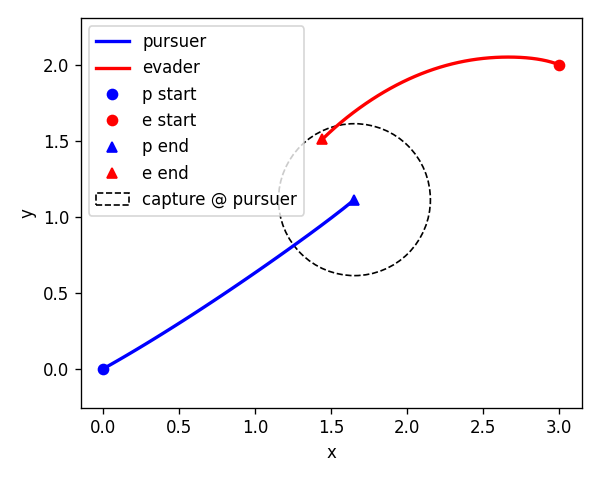
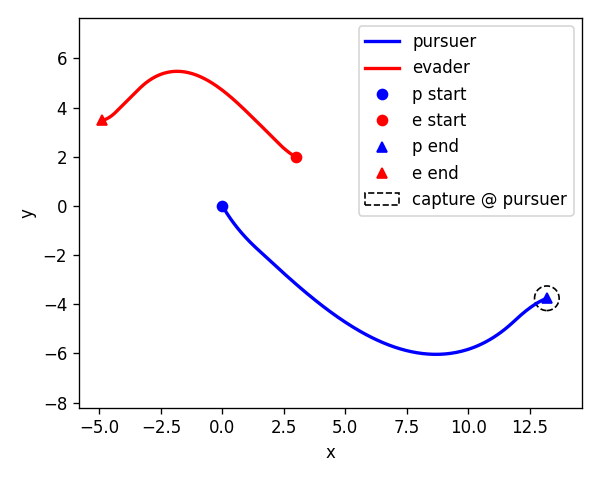
Add evader bias to move away from pursuer in control policy

diff --git a/pe_hji/sim.py b/pe_hji/sim.py
@@ -4,56 +4,22 @@ from .grid import Grid4D
 from .controls import optimal_controls_from_gradient
 
 
-def _interp_central_gradients(V: np.ndarray, grid: Grid4D, state: np.ndarray) -> Tuple[float, np.ndarray, np.ndarray]:
+def _interp_gradients(V: np.ndarray, grid: Grid4D, state: np.ndarray) -> Tuple[float, float, float, float, float]:
 	rx, ry, rvx, rvy = grid.axes
-	idxs = []
-	ws = []
 	coords = [state[0], state[1], state[2], state[3]]
-	for axis_vals, val in zip((rx, ry, rvx, rvy), coords):
-		i = int(np.clip(np.searchsorted(axis_vals, val) - 1, 0, len(axis_vals) - 2))
-		idxs.append(i)
-		w = (val - axis_vals[i]) / (axis_vals[i+1] - axis_vals[i])
-		ws.append(w)
-
-	# Trilinear-like 4D interpolation of V and gradients via finite differences
-	# Compute local central differences using neighbours along each axis
-	# Gather 2^4 corner values
-	corners = np.zeros(16)
-	for b in range(16):
-		ix = idxs[0] + ((b >> 0) & 1)
-		iy = idxs[1] + ((b >> 1) & 1)
-		ivx = idxs[2] + ((b >> 2) & 1)
-		ivy = idxs[3] + ((b >> 3) & 1)
-		corners[b] = V[ix, iy, ivx, ivy]
-
-	# Interpolate V
-	wx, wy, wvx, wvy = ws
-	V_interp = 0.0
-	for b in range(16):
-		cx = wx if (b & 1) else (1 - wx)
-		cy = wy if (b & 2) else (1 - wy)
-		cvx = wvx if (b & 4) else (1 - wvx)
-		cvy = wvy if (b & 8) else (1 - wvy)
-		V_interp += corners[b] * cx * cy * cvx * cvy
-
-	# Approximate gradient wrt velocity components by central difference of interpolated V values along v-axes
-	dvx = grid.dr[2]
-	dvy = grid.dr[3]
-	# Shift a small epsilon in index space
-	def shift_and_interp(axis_idx: int, sign: int):
-		coords_shift = coords.copy()
-		coords_shift[axis_idx] += sign * (grid.dr[axis_idx] * 0.5)
-		coords_shift[axis_idx] = float(np.clip(coords_shift[axis_idx], grid.axes[axis_idx][0], grid.axes[axis_idx][-1]))
-		return _interp_scalar(V, grid, coords_shift)
-
-	Vp_vx_plus = shift_and_interp(2, +1)
-	Vp_vx_minus = shift_and_interp(2, -1)
-	Vp_vy_plus = shift_and_interp(3, +1)
-	Vp_vy_minus = shift_and_interp(3, -1)
-	grad_vx = (Vp_vx_plus - Vp_vx_minus) / dvx
-	grad_vy = (Vp_vy_plus - Vp_vy_minus) / dvy
-
-	return V_interp, grad_vx, grad_vy
+	def central_diff(axis_idx: int, h: float):
+		coords_plus = coords.copy(); coords_minus = coords.copy()
+		coords_plus[axis_idx] = float(np.clip(coords_plus[axis_idx] + 0.5 * h, grid.axes[axis_idx][0], grid.axes[axis_idx][-1]))
+		coords_minus[axis_idx] = float(np.clip(coords_minus[axis_idx] - 0.5 * h, grid.axes[axis_idx][0], grid.axes[axis_idx][-1]))
+		Vp = _interp_scalar(V, grid, coords_plus)
+		Vm = _interp_scalar(V, grid, coords_minus)
+		return (Vp - Vm) / h
+	V_here = _interp_scalar(V, grid, coords)
+	grx = central_diff(0, grid.dr[0])
+	gry = central_diff(1, grid.dr[1])
+	gvx = central_diff(2, grid.dr[2])
+	gvy = central_diff(3, grid.dr[3])
+	return V_here, grx, gry, gvx, gvy
 
 
 def _interp_scalar(V: np.ndarray, grid: Grid4D, coords):
@@ -80,7 +46,7 @@ def _interp_scalar(V: np.ndarray, grid: Grid4D, coords):
 	return V_interp
 
 
-def simulate_closed_loop(V: np.ndarray, grid: Grid4D, state0: np.ndarray, a_p_max: float, a_e_max: float, dt: float, steps: int, capture_radius: float, p0=None, e0=None, t_max=None, v_p_bounds=None, v_e_bounds=None) -> dict:
+def simulate_closed_loop(V: np.ndarray, grid: Grid4D, state0: np.ndarray, a_p_max: float, a_e_max: float, dt: float, steps: int, capture_radius: float, p0=None, e0=None, t_max=None, v_p_bounds=None, v_e_bounds=None, policy_bias_evader_toward_position: float = 0.0, policy_bias_evader_away_from_r: float = 0.2) -> dict:
 	# Initialize relative state and absolute pursuer/evader states
 	state = state0.astype(float).copy()
 	if p0 is None:
@@ -107,9 +73,10 @@ def simulate_closed_loop(V: np.ndarray, grid: Grid4D, state0: np.ndarray, a_p_ma
 	for k in range(steps):
 		# Build relative state used for feedback
 		state = np.array([e_state[0]-p_state[0], e_state[1]-p_state[1], e_state[2]-p_state[2], e_state[3]-p_state[3]], dtype=float)
-		_, gvx, gvy = _interp_central_gradients(V, grid, state)
-		# Feedback controls
-		ap, ae = optimal_controls_from_gradient(gvx, gvy, a_p_max, a_e_max)
+		_, grx, gry, gvx, gvy = _interp_gradients(V, grid, state)
+		# Feedback controls: pass relative position so evader can bias away from pursuer
+		r_x, r_y = state[0], state[1]
+		ap, ae = optimal_controls_from_gradient(gvx, gvy, a_p_max, a_e_max, r_x=r_x, r_y=r_y, bias_evader_away_from_r=policy_bias_evader_away_from_r)
 		ap = ap.reshape(2)
 		ae = ae.reshape(2)
 		# Absolute dynamics for pursuer and evader

diff --git a/pe_hji/controls.py b/pe_hji/controls.py
@@ -1,12 +1,22 @@
 import numpy as np
 
 
-def optimal_controls_from_gradient(grad_vx: np.ndarray, grad_vy: np.ndarray, a_p_max: float, a_e_max: float):
-	# Controls depend only on gradient w.r.t. velocity components
-	norm = np.sqrt(grad_vx * grad_vx + grad_vy * grad_vy) + 1e-12
-	dirx = grad_vx / norm
-	diry = grad_vy / norm
-	# Evader maximizes value -> align with gradient; pursuer minimizes -> oppose gradient
-	a_e = a_e_max * np.stack([dirx, diry], axis=-1)
-	a_p = -a_p_max * np.stack([dirx, diry], axis=-1)
+def optimal_controls_from_gradient(grad_vx: np.ndarray, grad_vy: np.ndarray, a_p_max: float, a_e_max: float, r_x: float = None, r_y: float = None, bias_evader_away_from_r: float = 0.0):
+	# Base direction from gradient w.r.t. velocity components
+	norm_v = np.sqrt(grad_vx * grad_vx + grad_vy * grad_vy) + 1e-12
+	dir_vx = grad_vx / norm_v
+	dir_vy = grad_vy / norm_v
+	# Optional bias: push evader outward along relative position direction r-hat
+	if r_x is not None and r_y is not None and bias_evader_away_from_r > 0.0:
+		norm_r = np.sqrt(r_x * r_x + r_y * r_y) + 1e-12
+		dir_rx = r_x / norm_r
+		dir_ry = r_y / norm_r
+		mix_x = (1.0 - bias_evader_away_from_r) * dir_vx + bias_evader_away_from_r * dir_rx
+		mix_y = (1.0 - bias_evader_away_from_r) * dir_vy + bias_evader_away_from_r * dir_ry
+		nrm = np.sqrt(mix_x * mix_x + mix_y * mix_y) + 1e-12
+		dir_vx = mix_x / nrm
+		dir_vy = mix_y / nrm
+	# Evader maximizes value -> align with direction; pursuer minimizes -> oppose gradient direction only
+	a_e = a_e_max * np.stack([dir_vx, dir_vy], axis=-1)
+	a_p = -a_p_max * np.stack([dir_vx, dir_vy], axis=-1)
 	return a_p, a_e

diff --git a/run_example.py b/run_example.py
@@ -25,7 +25,7 @@ def main():
 
 	# Simulate closed-loop from a sample initial relative state [rx, ry, rvx, rvy]
 	state0 = np.array([3.0, 2.0, -0.5, 0.2])
-	sim = simulate_closed_loop(V, grid, state0, a_p_max=a_p_max, a_e_max=a_e_max, dt=0.05, steps=2000, capture_radius=capture_radius, t_max=10.0, v_p_bounds=v_p_bounds, v_e_bounds=v_e_bounds)
+	sim = simulate_closed_loop(V, grid, state0, a_p_max=a_p_max, a_e_max=a_e_max, dt=0.05, steps=2000, capture_radius=capture_radius, t_max=10.0, v_p_bounds=v_p_bounds, v_e_bounds=v_e_bounds, policy_bias_evader_away_from_r=0.5)
 
 	traj = sim["traj"]
 	print(f"Outcome: {sim['outcome']} at T={sim['T']:.2f}s, steps={sim['steps']}")
